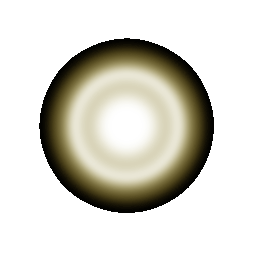
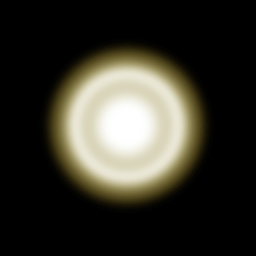
Particles v2

diff --git a/TestTypeScript/src/game/Particles.ts b/TestTypeScript/src/game/Particles.ts
@@ -11,33 +11,48 @@ export class Particles {
         this.particleSystem = new BABYLON.ParticleSystem("particles", 2000, scene);
         this.particleSystem.particleTexture = new BABYLON.Texture("./images/Flare.png", scene);
         this.particleSystem.emitter = emiter;
-        this.particleSystem.textureMask = new BABYLON.Color4(0.1, 0.8, 0.8, 1.0);
-        this.particleSystem.minEmitBox = new BABYLON.Vector3(-1, 0, 0); // Starting all From
-        this.particleSystem.maxEmitBox = new BABYLON.Vector3(1, 0, 0); // To...
-        // Colors of all particles (splited in 2 + specific color before dispose)
-        this.particleSystem.color1 = new BABYLON.Color4(0.7, 0.8, 1.0, 1.0);
-        this.particleSystem.color2 = new BABYLON.Color4(0.2, 0.5, 1.0, 1.0);
+
+        this.particleSystem.minEmitBox = new BABYLON.Vector3(-0.2, 0, 0); // Starting all from
+        this.particleSystem.maxEmitBox = new BABYLON.Vector3(0.2, 0, 0); // To...
+
+        // Colors of all particles
+        this.particleSystem.color1 = new BABYLON.Color4(0.8, 0.03, 0.14, 1.0);
+        this.particleSystem.color2 = new BABYLON.Color4(0.89, 0.29, 0.03, 1.0);
         this.particleSystem.colorDead = new BABYLON.Color4(0, 0, 0.2, 0.0);
-        // Size of each particle (random between...)
+
+        // Size of each particle (random between...
         this.particleSystem.minSize = 0.1;
-        this.particleSystem.maxSize = 0.5;
-        // Life time of each particle (random between...)
+        this.particleSystem.maxSize = 1;
+
+        // Life time of each particle (random between...
         this.particleSystem.minLifeTime = 0.3;
-        this.particleSystem.maxLifeTime = 1.5;
-        this.particleSystem.emitRate = 1000;
-        this.particleSystem.manualEmitCount = 300;
-        //Set the gravity of all particles (not necessarily down)
-        this.particleSystem.gravity = new BABYLON.Vector3(0, -9.81, 0);
-        this.particleSystem.direction1 = new BABYLON.Vector3(-7, 8, 3);
-        this.particleSystem.direction2 = new BABYLON.Vector3(7, 8, -3);
+        this.particleSystem.maxLifeTime = 1;
+
+        // Emission rate
+        this.particleSystem.emitRate = 1500;
+
+        // Blend mode : BLENDMODE_ONEONE, or BLENDMODE_STANDARD
+        this.particleSystem.blendMode = BABYLON.ParticleSystem.BLENDMODE_ONEONE;
+
+        // Direction of each particle after it has been emitted
+        this.particleSystem.direction1 = new BABYLON.Vector3(Math.sin(Math.random()*10), Math.sin(Math.random()*10), Math.sin(Math.random()*10));
+        this.particleSystem.direction2 = new BABYLON.Vector3(Math.sin(Math.random()*10), Math.sin(Math.random()*10), Math.sin(Math.random()*10));
+
+        // Angular speed, in radians
         this.particleSystem.minAngularSpeed = 0;
         this.particleSystem.maxAngularSpeed = Math.PI;
-        this.particleSystem.minEmitPower = 1;
-        this.particleSystem.maxEmitPower = 3;
+
+        // Speed
+        this.particleSystem.minEmitPower = 10;
+        this.particleSystem.maxEmitPower = 10;
         this.particleSystem.updateSpeed = 0.005;
 
-        this.particleSystem.targetStopDuration = 5;
+        this.particleSystem.targetStopDuration = 0.25;
         this.particleSystem.disposeOnStop = true;
+
+        // Start the particle system
         this.particleSystem.start();
+
+
     }
 }
